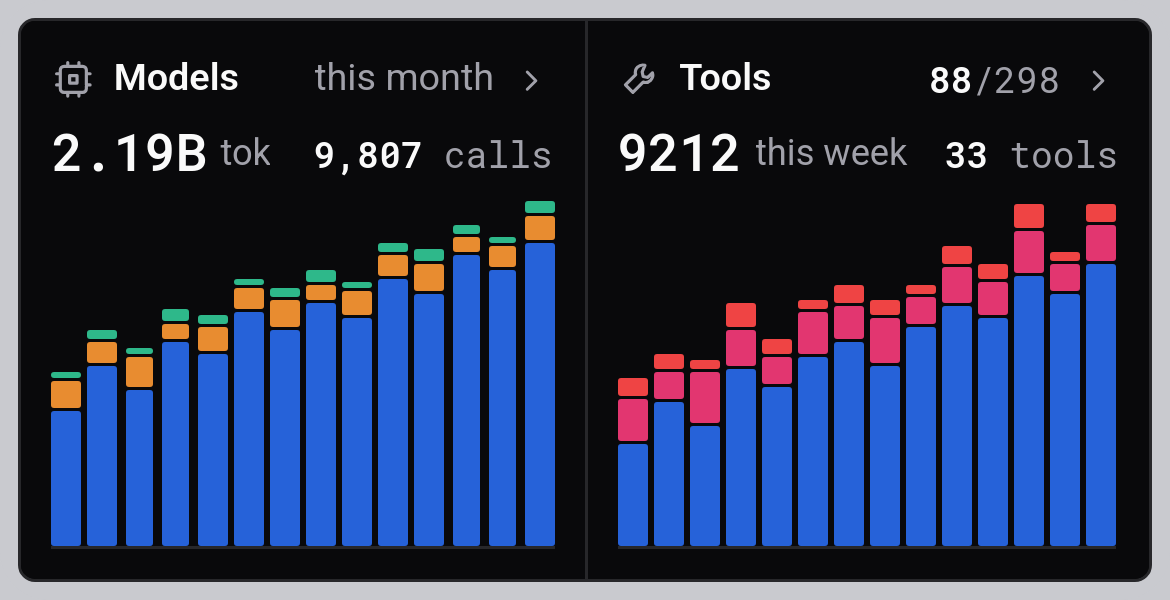
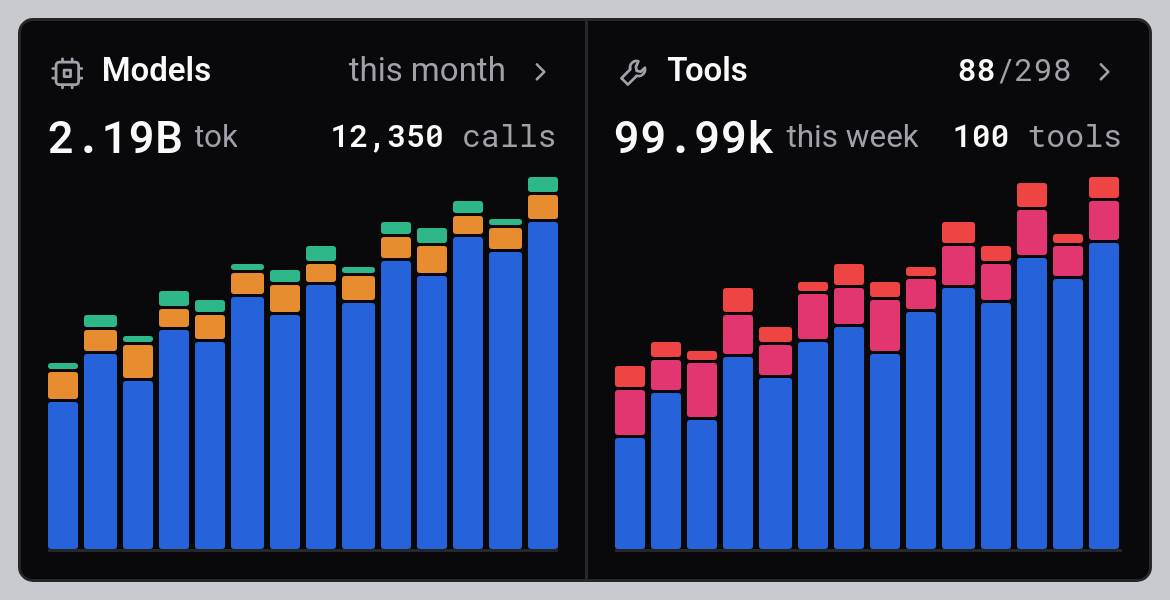
The widget sizes its card to the figures it is about to write
1.9.3. The card's one scale came from a single measured line, "9212 this
week 33 tools"; a week past 10,000 is written "10.00k" or "99.99k", and
"999.9M" tokens, "12,350" calls, "100 tools" or the Turkish words are all
wider, so the real line could run past the half's edge. The widest line is
now worked out from the very text each half writes - both heads and both
figure rows - with Roboto's own advances per glyph at 400 and 600, and
Roboto Mono at 0.6em, and the scale is the largest that fits it, clamped
as before. Over 320/344/390/412 dp, every figure combination, English and
Turkish, no line overflows and each keeps 3 to 5 dp of room. The
screenshots show the widest realistic figures.

diff --git a/src/widget/StatsWidget.tsx b/src/widget/StatsWidget.tsx
@@ -52,11 +52,69 @@ const WEB = {
 const TEXT_LINE = 1.45;
 const FIG_LINE = 1.28;
 /**
- * The room the widest figure row asks for - "9,212" + "this week" + "33 tools"
- * with the gaps between them, measured in the platform's own faces (Roboto and
- * Roboto Mono, not the web's IBM Plex) at the card's own scale of 1.
+ * How wide each character is in the platform's sans face (Roboto), in ems, at
+ * 400 and at 600 - read off the font itself, glyph by glyph, for every letter
+ * the card's words and figures can have in English and Turkish. The monospace
+ * face needs no table: each of its glyphs, at any weight, is 0.6em.
  */
-const FIG_ROW = 142.3;
+const GLYPHS = 'abcdefghijklmnopqrstuvwxyzABCDEFGHIJKLMNOPQRSTUVWXYZ0123456789 ,./%·çğıöşüÇĞİÖŞÜ–-';
+const SANS: Record<400 | 600, number[]> = {
+  400: [
+    544, 562, 523, 564, 530, 348, 562, 551, 243, 239, 507, 243, 877, 552, 570, 562, 568, 339, 516, 327, 551, 484, 751,
+    496, 473, 496, 652, 623, 651, 656, 568, 553, 681, 713, 272, 552, 627, 539, 873, 713, 688, 631, 688, 616, 594, 597,
+    648, 637, 887, 627, 601, 599, 562, 562, 562, 562, 562, 562, 562, 562, 562, 562, 248, 197, 264, 413, 732, 261, 523,
+    550, 248, 570, 493, 551, 651, 765, 278, 688, 667, 648, 656, 276,
+  ],
+  600: [
+    537, 563, 521, 563, 538, 355, 569, 558, 260, 255, 528, 260, 869, 559, 566, 563, 565, 360, 514, 336, 558, 501, 738,
+    506, 497, 506, 667, 635, 654, 651, 564, 550, 682, 708, 288, 557, 634, 541, 875, 708, 689, 642, 689, 635, 610, 615,
+    657, 649, 878, 633, 615, 605, 571, 571, 571, 571, 571, 571, 571, 571, 571, 571, 249, 235, 284, 380, 738, 292, 521,
+    550, 267, 566, 493, 558, 654, 765, 278, 689, 667, 657, 636, 367,
+  ],
+};
+
+/** A line's width in ems: the sans face by its table (an unknown letter counted wide), the monospace one at 0.6 each. */
+function ems(text: string, face: 'sans' | 'mono', weight: 400 | 600 = 400): number {
+  if (face === 'mono') return [...text].length * 0.6;
+  let w = 0;
+  for (const ch of text) {
+    const at = GLYPHS.indexOf(ch);
+    w += at < 0 ? 0.7 : SANS[weight][at] / 1000;
+  }
+  return w;
+}
+
+/** What one half writes: its head and its figures row, the text the drawing is sized to. */
+interface HalfText {
+  title: string;
+  /** The head's right: a word in the sans face, or the monospace "88/298". */
+  headRight?: { text: string; mono: boolean };
+  big: string;
+  unit: string;
+  value: string;
+  word: string;
+}
+
+/**
+ * The room a half's widest line asks for at the card's scale of 1: the head
+ * (icon, name, what it says at the right, chevron, and the gaps between them
+ * and the spring) and the figures row (the big figure, its word, the spring
+ * and the small figure with its word), in the web's sizes.
+ */
+function widest(halves: HalfText[]): number {
+  let most = 0;
+  for (const x of halves) {
+    const right = x.headRight ? ems(x.headRight.text, x.headRight.mono ? 'mono' : 'sans') * (x.headRight.mono ? WEB.aside : WEB.head) : 0;
+    const head = WEB.icon + ems(x.title, 'sans', 600) * WEB.head + right + WEB.chev + (x.headRight ? 4 : 3) * WEB.headGap;
+    const fig =
+      ems(x.big, 'mono') * WEB.fig +
+      ems(x.unit, 'sans') * WEB.aside +
+      (ems(x.value, 'mono') + 0.6 + ems(x.word, 'mono')) * WEB.aside +
+      3 * WEB.gap;
+    most = Math.max(most, head, fig);
+  }
+  return most;
+}
 
 /** The theme's colours are strings; the widget's own type wants a `#` or an `rgba()`. */
 const paint = (colour: string) => colour as ColorProp;
@@ -111,17 +169,19 @@ interface Metrics {
   figGap: number;
 }
 
-function metrics(w: number, h: number): Metrics {
+function metrics(w: number, h: number, room: number): Metrics {
   const pad = 6; // the web's `.ccl-wrap` margin round the card, now the plate's
   // A half's room inside the plate and the card's own borders.
   const half = (w - 2 * pad - 2) / 2;
   /**
-   * The card is the web's, enlarged only as far as its widest line still fits:
-   * a little under 1 at the width the web card itself has (where the web clips
-   * that line and this does not), 1 at 344dp, 1.15 in a 5x2 cell of 390 - so a
-   * bigger frame gets a bigger card rather than the web's 11px in a wide hole.
+   * The card is the web's, enlarged only as far as its widest line - `room`,
+   * worked out from the words and figures it is about to write - still fits:
+   * for "9212 this week 33 tools" a little under 1 at the width the web card
+   * itself has (where the web clips that line and this does not), 1 at 344dp,
+   * 1.15 in a 5x2 cell of 390 - so a bigger frame gets a bigger card rather than
+   * the web's 11px in a wide hole, and a longer figure a slightly smaller one.
    */
-  const k = Math.max(0.75, Math.min(1.4, (half - 4) / (FIG_ROW + 2 * WEB.pad)));
+  const k = Math.max(0.75, Math.min(1.4, (half - 4) / (room + 2 * WEB.pad)));
   const of = (v: number) => Math.round(v * k * 10) / 10;
   const cardPad = Math.round(WEB.pad * k * 10) / 10;
   const gap = Math.round(WEB.gap * k * 10) / 10;
@@ -377,7 +437,26 @@ export function StatsWidget({
   h: number;
   t: SettingsStrings;
 }) {
-  const m = metrics(w, h);
+  // The text each half writes, worked out once: the drawing below writes it and
+  // `widest` sizes the card to it.
+  const models: HalfText = {
+    title: t.models,
+    headRight: { text: t.period.month, mono: false },
+    big: snap ? figure(snap.models.tokens) : '',
+    unit: 'tok',
+    value: snap ? count(snap.models.calls) : '',
+    word: t.calls,
+  };
+  const tools: HalfText = {
+    title: t.tools,
+    // The web head's "88/298" - the tools that are on, out of all of them.
+    headRight: snap?.tools.total ? { text: `${snap.tools.on}/${count(snap.tools.total)}`, mono: true } : undefined,
+    big: snap ? (snap.tools.week >= 1e4 ? figure(snap.tools.week) : String(snap.tools.week)) : '',
+    unit: t.period.week,
+    value: snap ? count(snap.tools.kinds) : '',
+    word: t.toolWord(snap?.tools.kinds ?? 0),
+  };
+  const m = metrics(w, h, widest(snap ? [models, tools] : [{ ...models, big: '', unit: '', value: '', word: '' }]));
   // One sentence for a screen reader: the widget itself is a picture to it.
   const label = snap
     ? `${t.models}, ${t.period.month}: ${compact(snap.models.tokens)} tok, ${count(snap.models.calls)} ${t.calls}. ${t.tools}, ${t.period.week}: ${count(snap.tools.week)}, ${t.toolCount(snap.tools.kinds)}.`
@@ -426,7 +505,7 @@ export function StatsWidget({
       <FlexWidget style={card}>
         <Half
           icon={glyph(MODELS_ICON, colors.inkDim)}
-          title={t.models}
+          title={models.title}
           headRight={
             <TextWidget
               text={t.period.month}
@@ -434,9 +513,9 @@ export function StatsWidget({
               style={{ fontSize: m.headFont, lineHeight: m.headLine, color: paint(colors.inkDim) }}
             />
           }
-          big={figure(snap.models.tokens)}
-          unit="tok"
-          figRight={<Figure value={count(snap.models.calls)} word={t.calls} m={m} line={m.figLine} />}
+          big={models.big}
+          unit={models.unit}
+          figRight={<Figure value={models.value} word={models.word} m={m} line={m.figLine} />}
           days={snap.models.days}
           palette={SERIES}
           width={m.innerLeft}
@@ -446,16 +525,15 @@ export function StatsWidget({
 
         <Half
           icon={glyph(WRENCH_ICON, colors.inkDim)}
-          title={t.tools}
+          title={tools.title}
           headRight={
-            // The web head's "88/298" - the tools that are on, out of all of them.
             snap.tools.total ? (
               <Figure value={String(snap.tools.on)} word={`/${count(snap.tools.total)}`} m={m} line={m.smallLine} tight />
             ) : null
           }
-          big={snap.tools.week >= 1e4 ? figure(snap.tools.week) : String(snap.tools.week)}
-          unit={t.period.week}
-          figRight={<Figure value={count(snap.tools.kinds)} word={t.toolWord(snap.tools.kinds)} m={m} line={m.figLine} />}
+          big={tools.big}
+          unit={tools.unit}
+          figRight={<Figure value={tools.value} word={tools.word} m={m} line={m.figLine} />}
           days={snap.tools.days}
           palette={TOOL_COLORS}
           width={m.innerRight}

diff --git a/README.md b/README.md
@@ -103,11 +103,16 @@ Then you sign in with the same e-mail address and password as on the web.
   guessed: an 11px head over 15px figures and 10.5px asides, 9px padding on
   a phone, gaps of 4, the plate at radius 14 and the card at 5. Those are the
   web's numbers at the width the web card has, and one factor - the room its
-  widest line, "9,212 this week 33 tools", leaves - multiplies all of them at
-  once (1.9.2). A little under 1 at 320, the width the web card itself has,
-  where the web clips that line and the widget does not; 1 at 344 and 1.15 in
-  a 5x2 cell of 390, so a bigger frame gets a bigger card instead of 11px left
-  small in it. Only the chart takes the height the cell has left, so a cell of
+  widest line leaves - multiplies all of them at once (1.9.2). That line is
+  worked out from the very words and figures the widget is about to write
+  (1.9.3), glyph by glyph from Roboto's and Roboto Mono's own advances, in
+  English or Turkish: "9212 this week 33 tools" gives a little under 1 at
+  320, the width the web card itself has, where the web clips that line and
+  the widget does not, 1 at 344 and 1.15 in a 5x2 cell of 390, so a bigger
+  frame gets a bigger card instead of 11px left small in it; a week past
+  10,000 ("10.00k", "99.99k"), "999.9M" tokens, "12,350" calls or "100
+  tools" make it a step smaller instead of running off the edge. The figures
+  are written as the web writes them - k and B with two decimals, M with one. Only the chart takes the height the cell has left, so a cell of
   320x110 and one of 390x200 both read and neither leaves a band of nothing;
   a narrower cell shrinks the type to fit rather than spilling. It
   says the web card's own words, piece for piece - the figures with their
